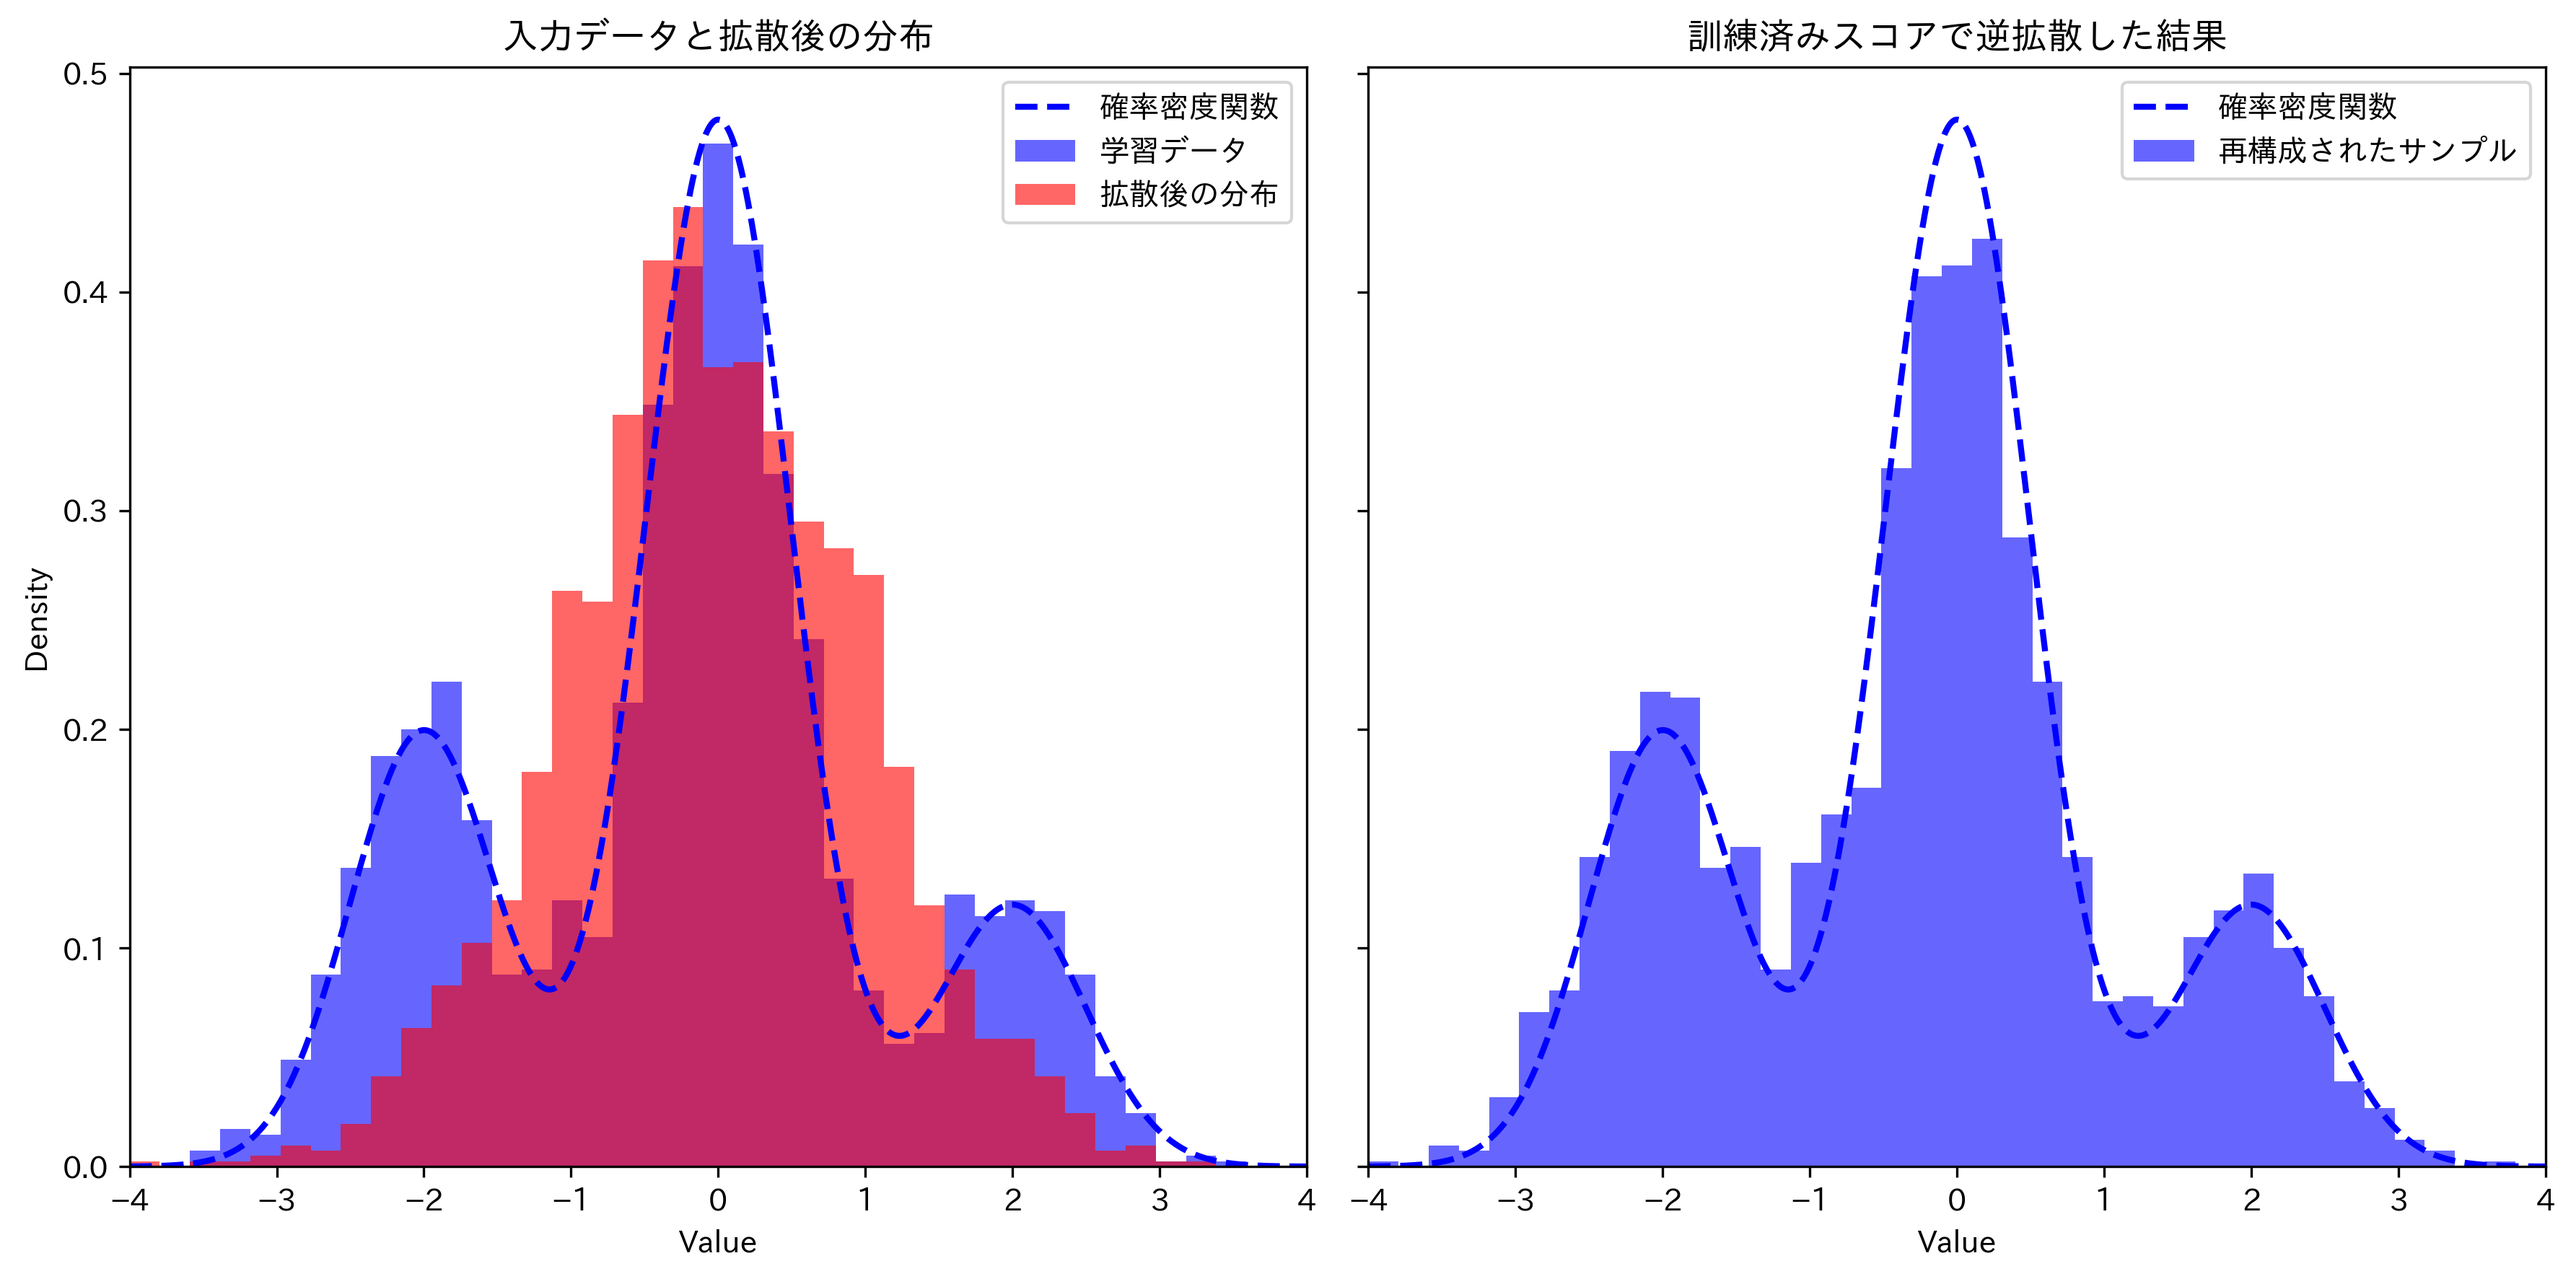
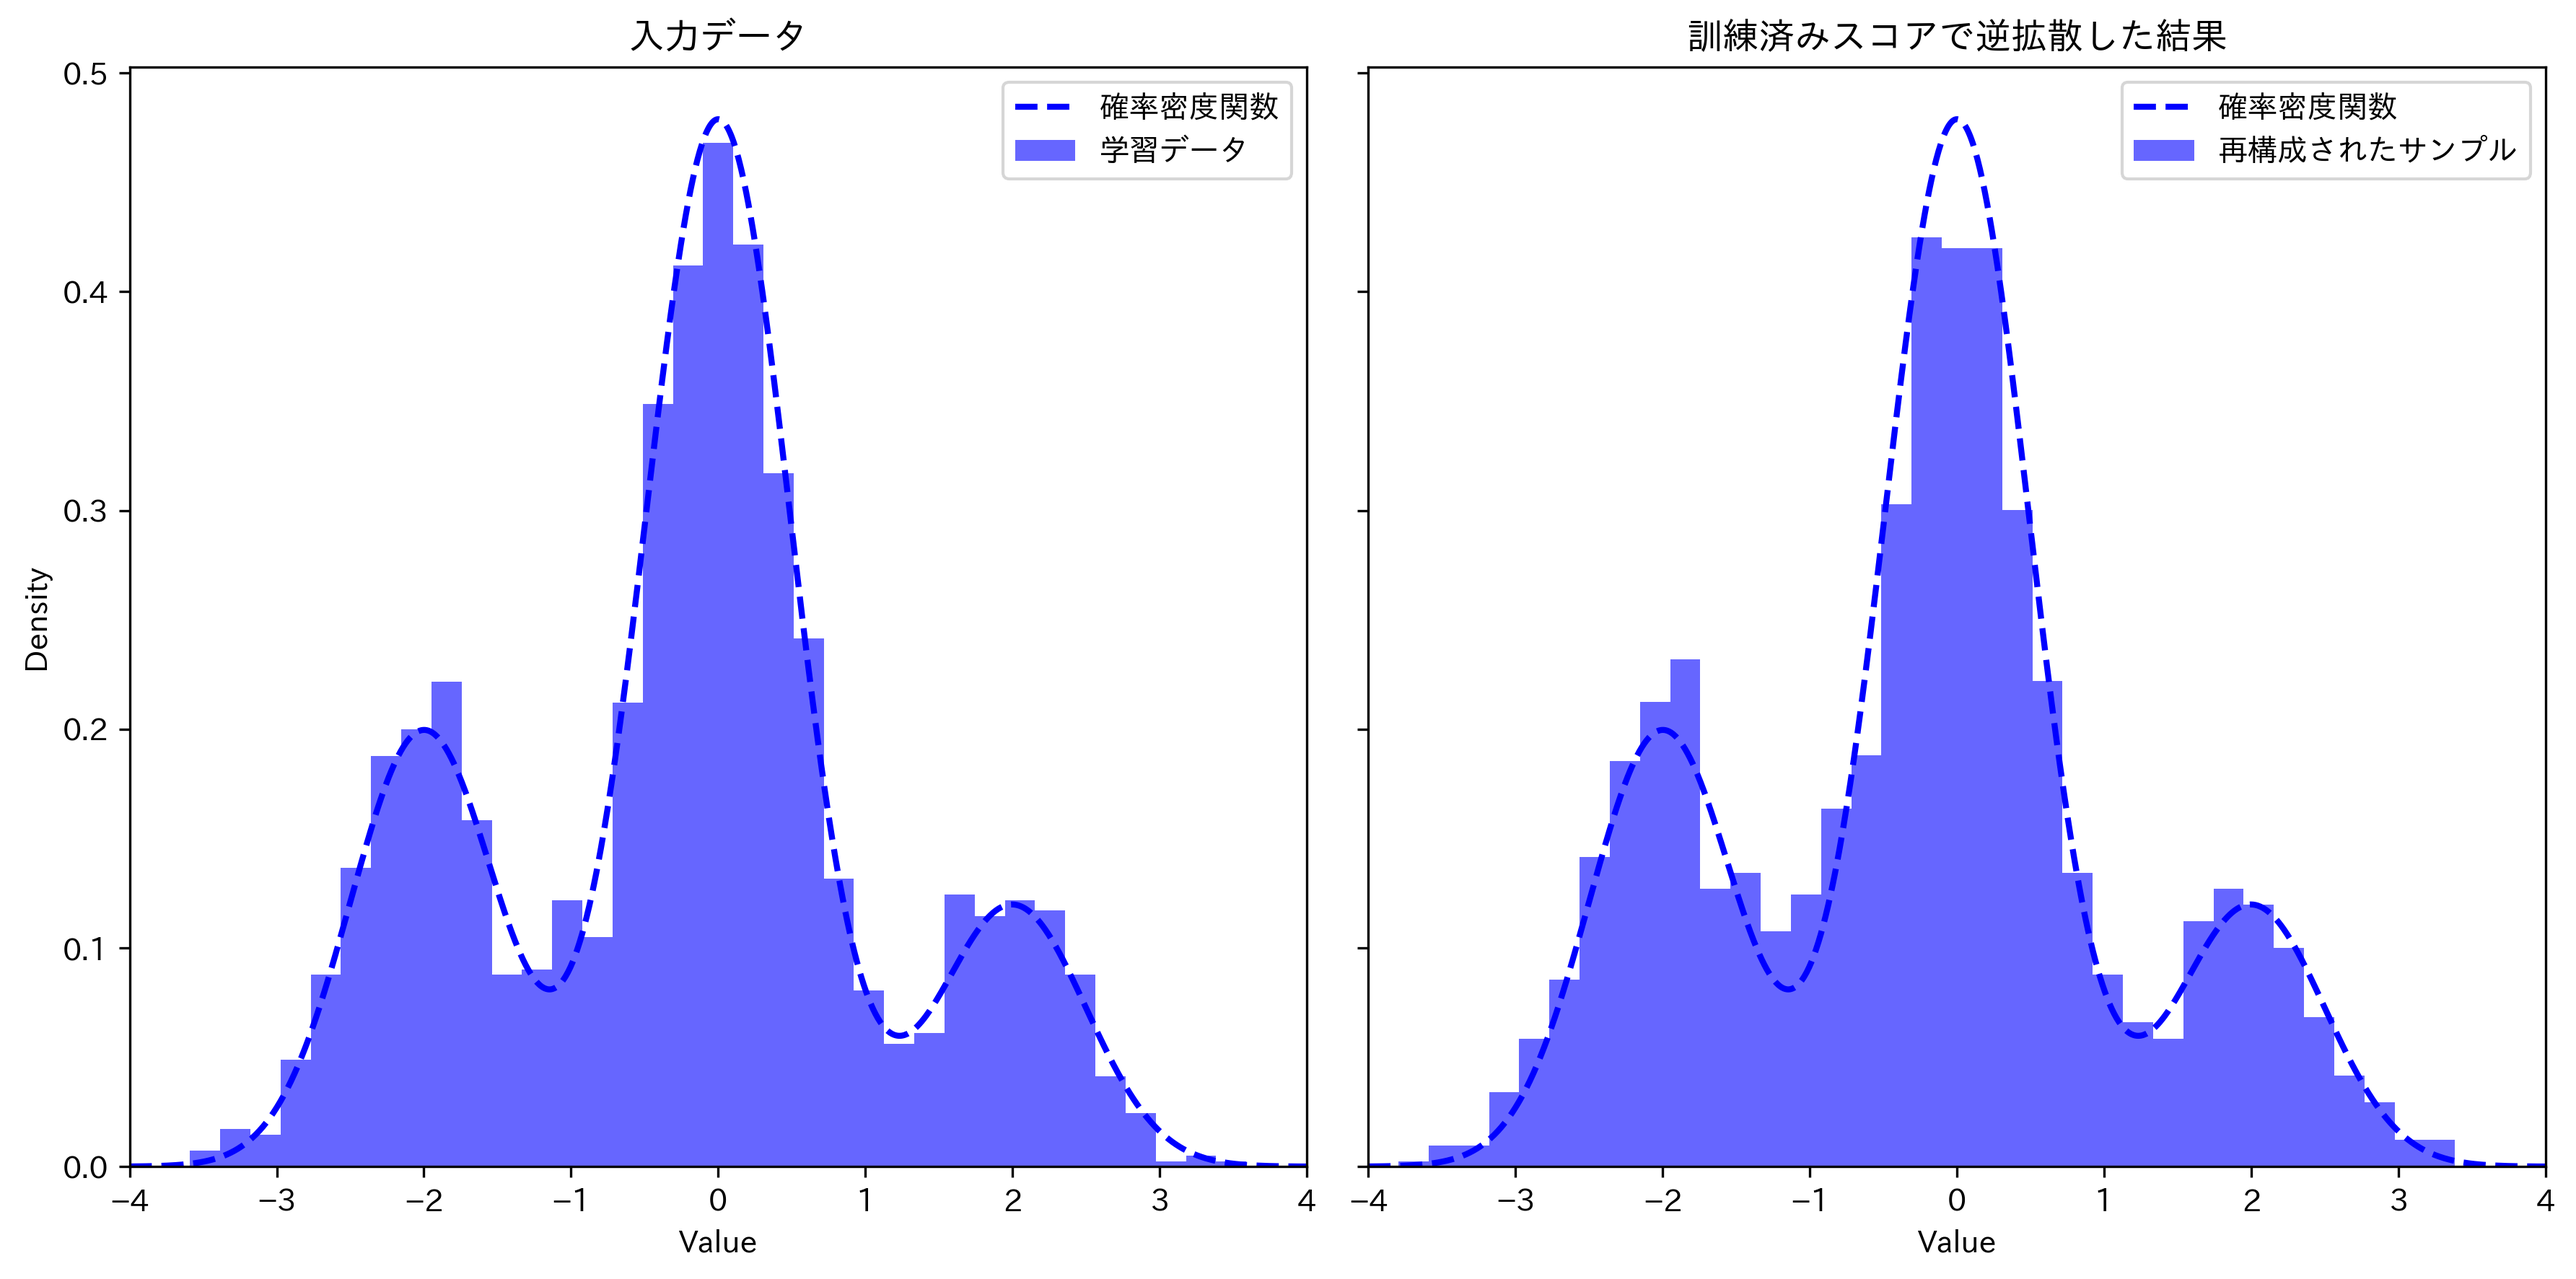
fix dsm figure

diff --git a/1d_dsm.py b/1d_dsm.py
@@ -140,15 +140,15 @@ axes[0].hist(
     label="学習データ",
     color="blue",
 )
-axes[0].hist(
-    np.array(x_reconstructed)[-1].flatten(),
-    bins=bins,
-    density=True,
-    alpha=0.6,
-    label="拡散後の分布",
-    color="red",
-)
-axes[0].set_title("入力データと拡散後の分布")
+# axes[0].hist(
+#     np.array(x_reconstructed)[-1].flatten(),
+#     bins=bins,
+#     density=True,
+#     alpha=0.6,
+#     label="拡散後の分布",
+#     color="red",
+# )
+axes[0].set_title("入力データ")
 axes[0].set_xlabel("Value")
 axes[0].set_ylabel("Density")
 axes[0].legend(loc="upper right")
